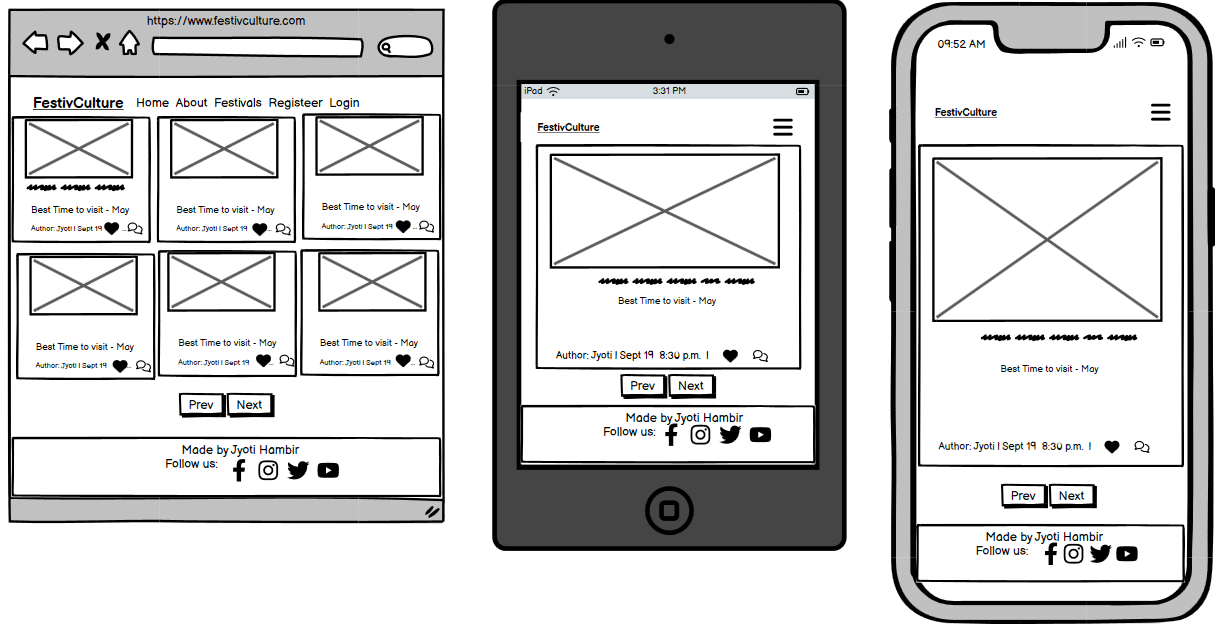
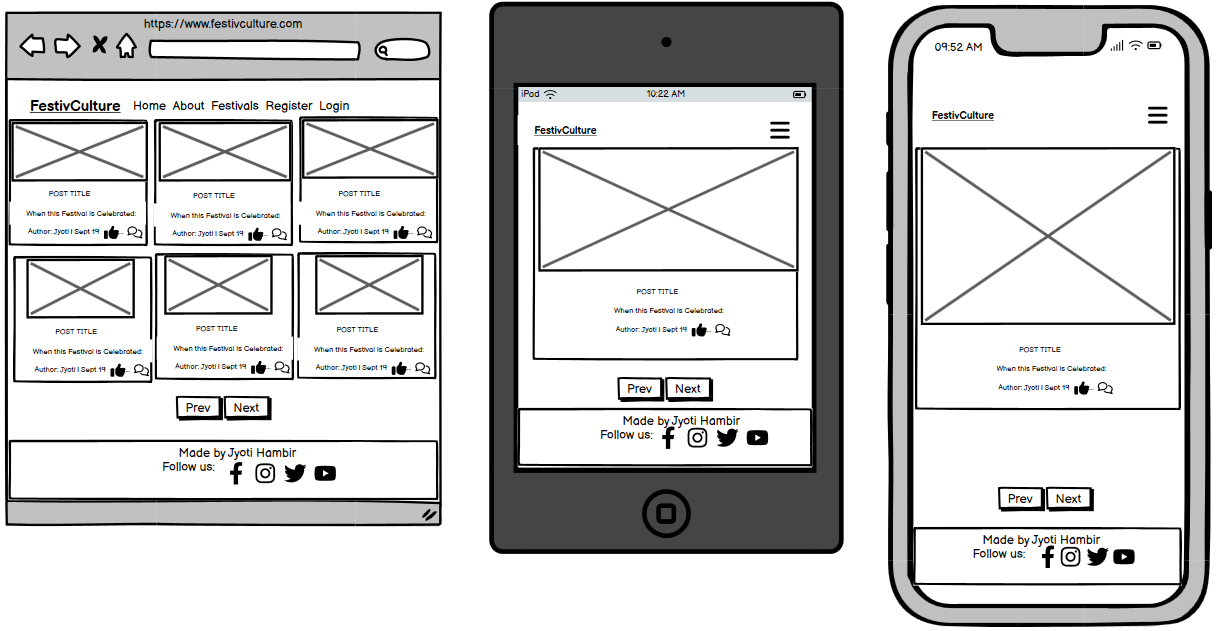
wireframe updated in readme as per latest display of website

Changed region(s): [[0.0, 0.0, 0.9951, 0.9984], [0.4043, 0.8471, 0.4354, 0.8774]]

diff --git a/FestivCulture/settings.py b/FestivCulture/settings.py
@@ -31,7 +31,7 @@ TEMPLATES_DIR = os.path.join(BASE_DIR, 'templates')
 SECRET_KEY = os.environ.get("SECRET_KEY")
 
 # SECURITY WARNING: don't run with debug turned on in production!
-DEBUG = True
+DEBUG = False
 
 ALLOWED_HOSTS = ['8000-jyotihambir-festivcultu-manw5ge8b4d.ws.codeinstitute-ide.net', '.herokuapp.com']
 

diff --git a/README.md b/README.md
@@ -57,21 +57,37 @@ The Agile Methodology was used to plan this project. This was implemented throug
 
 ![Home Page](assets/wireframe/homepage.png)
 
+<hr>
+
 **About Page**
 
 ![About Page](assets/wireframe/about%20page.png)
+
+<hr>
 
 **Festivals Page**
 
 ![Festivals Page](assets/wireframe/festivals%20page.png)
 
+<hr>
+
 **Festivals Blog Page**
 
 ![Festivals Blog Page](assets/wireframe/festivals%20blog%20page.png)
 
+<hr>
+
+**My Favourite Page**
+
+![My Favourite Page](assets/wireframe/my-fav-page.png)
+
+<hr>
+
 **Register Page**
 
 ![Register Page](assets/wireframe/register%20page.png)
+
+<hr>
 
 ### Database Diagram
 
@@ -147,7 +163,7 @@ At the very first glimpse, user can see a Navigation menu and carousel-images wi
 
 #### For Not Signed-In User
 
-- If user not signed-in, following button will appear. 
+- If user not signed-in, following button will appear. It also have the login link attached under "Login here", so user can directly navigate to the Sign-In page. 
 
 ![Add to Favourite Button](assets/festivalPage/if_not_loggedIn.png)
 
